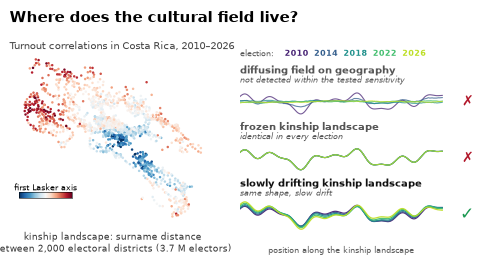
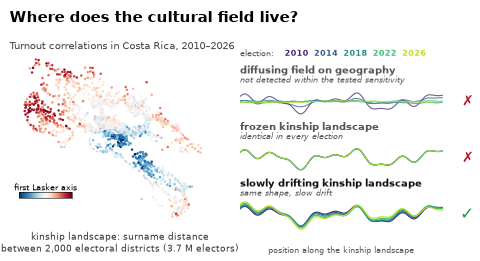
Graphical abstract: un-clip caption, save opaque RGB

Changed region(s): [[0.0, 0.8889, 0.5, 0.9808]]

diff --git a/scripts/graphical_abstract.py b/scripts/graphical_abstract.py
@@ -24,7 +24,7 @@ fig.text(0.02, 0.84, "Turnout correlations in Costa Rica, 2010–2026", fontsize
 axm = fig.add_axes([0.0, 0.14, 0.47, 0.66])
 sc = axm.scatter(pc.E_crtm05 / 1e3, pc.N_crtm05 / 1e3, c=pc.PCo1, s=3.2, cmap="RdBu_r", vmin=-2.2, vmax=2.2, linewidths=0)
 axm.set_aspect("equal"); axm.axis("off")
-fig.text(0.235, 0.115, "kinship landscape: surname distance\nbetween 2,000 electoral districts (3.7 M electors)",
+fig.text(0.25, 0.115, "kinship landscape: surname distance\nbetween 2,000 electoral districts (3.7 M electors)",
          ha="center", va="top", fontsize=6.3, color="#333333")
 cax = fig.add_axes([0.04, 0.24, 0.11, 0.022])
 cb = fig.colorbar(sc, cax=cax, orientation="horizontal", ticks=[])
@@ -64,4 +64,7 @@ out = cf.FIG / "graphical_abstract.png"
 fig.savefig(out, dpi=100, facecolor="white")
 fig.savefig(cf.FIG / "graphical_abstract_2x.png", dpi=200, facecolor="white")
 plt.close(fig)
+from PIL import Image  # flatten to opaque RGB (no alpha channel) for the journal uploader
+for f in (out, cf.FIG / "graphical_abstract_2x.png"):
+    Image.open(f).convert("RGB").save(f)
 print("wrote", out)
